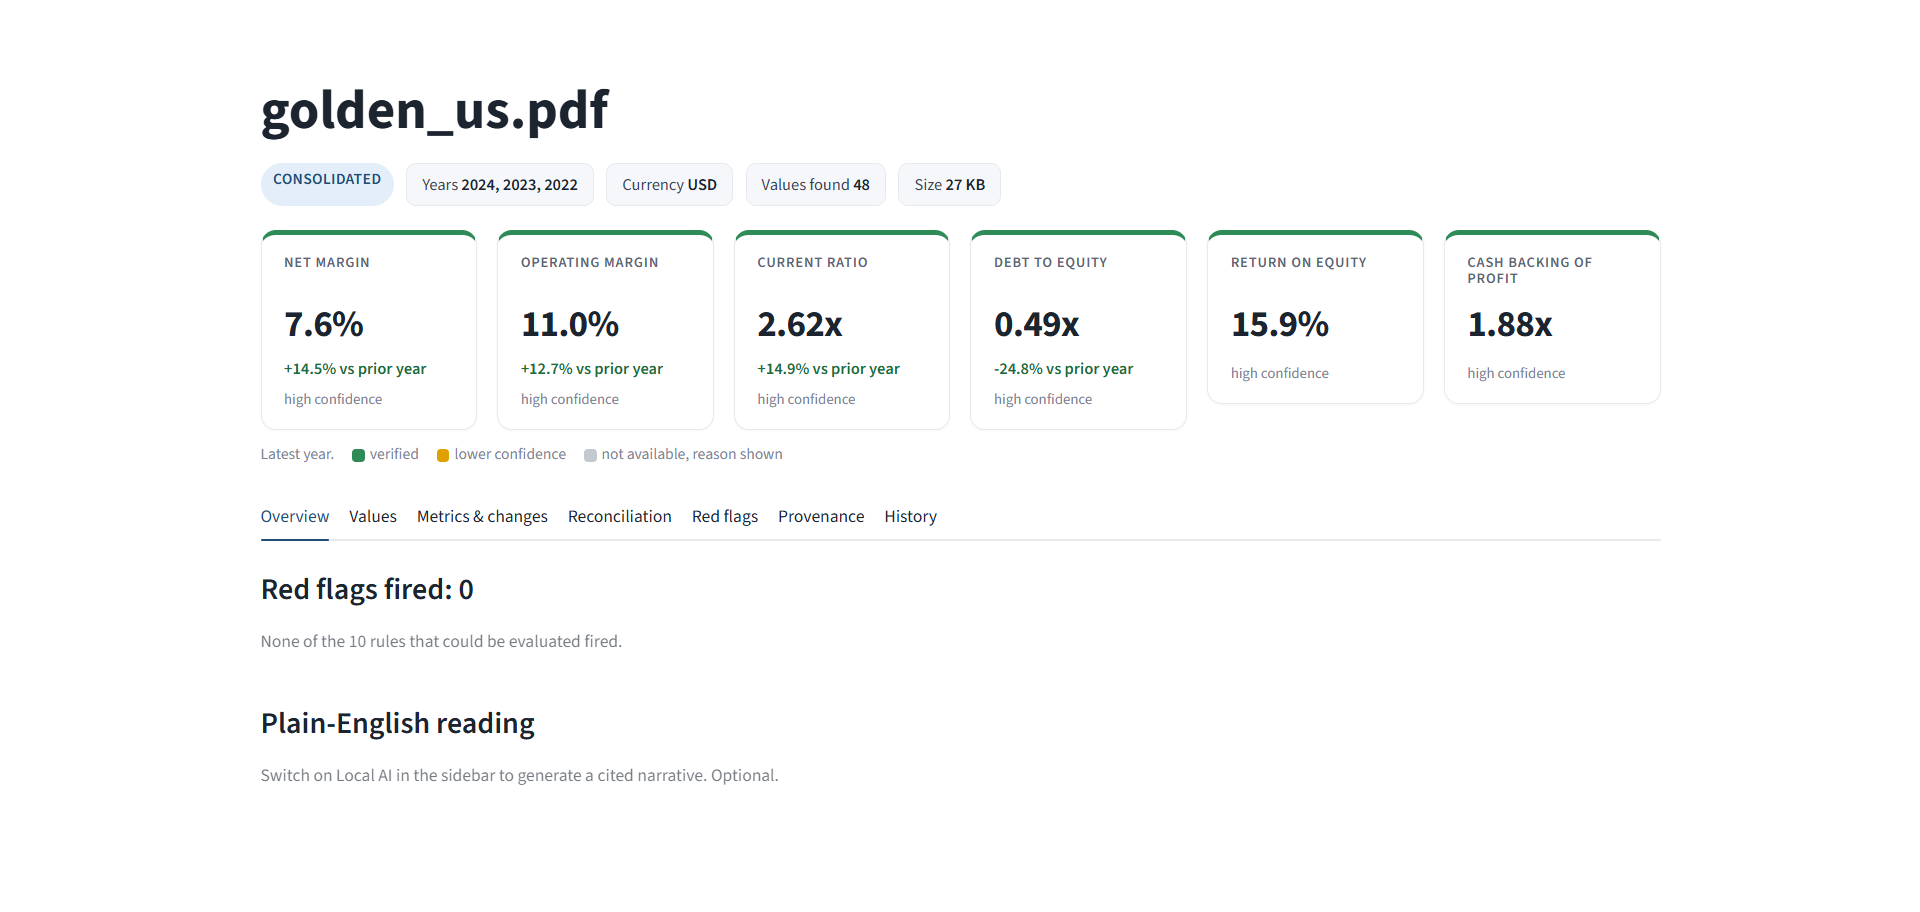
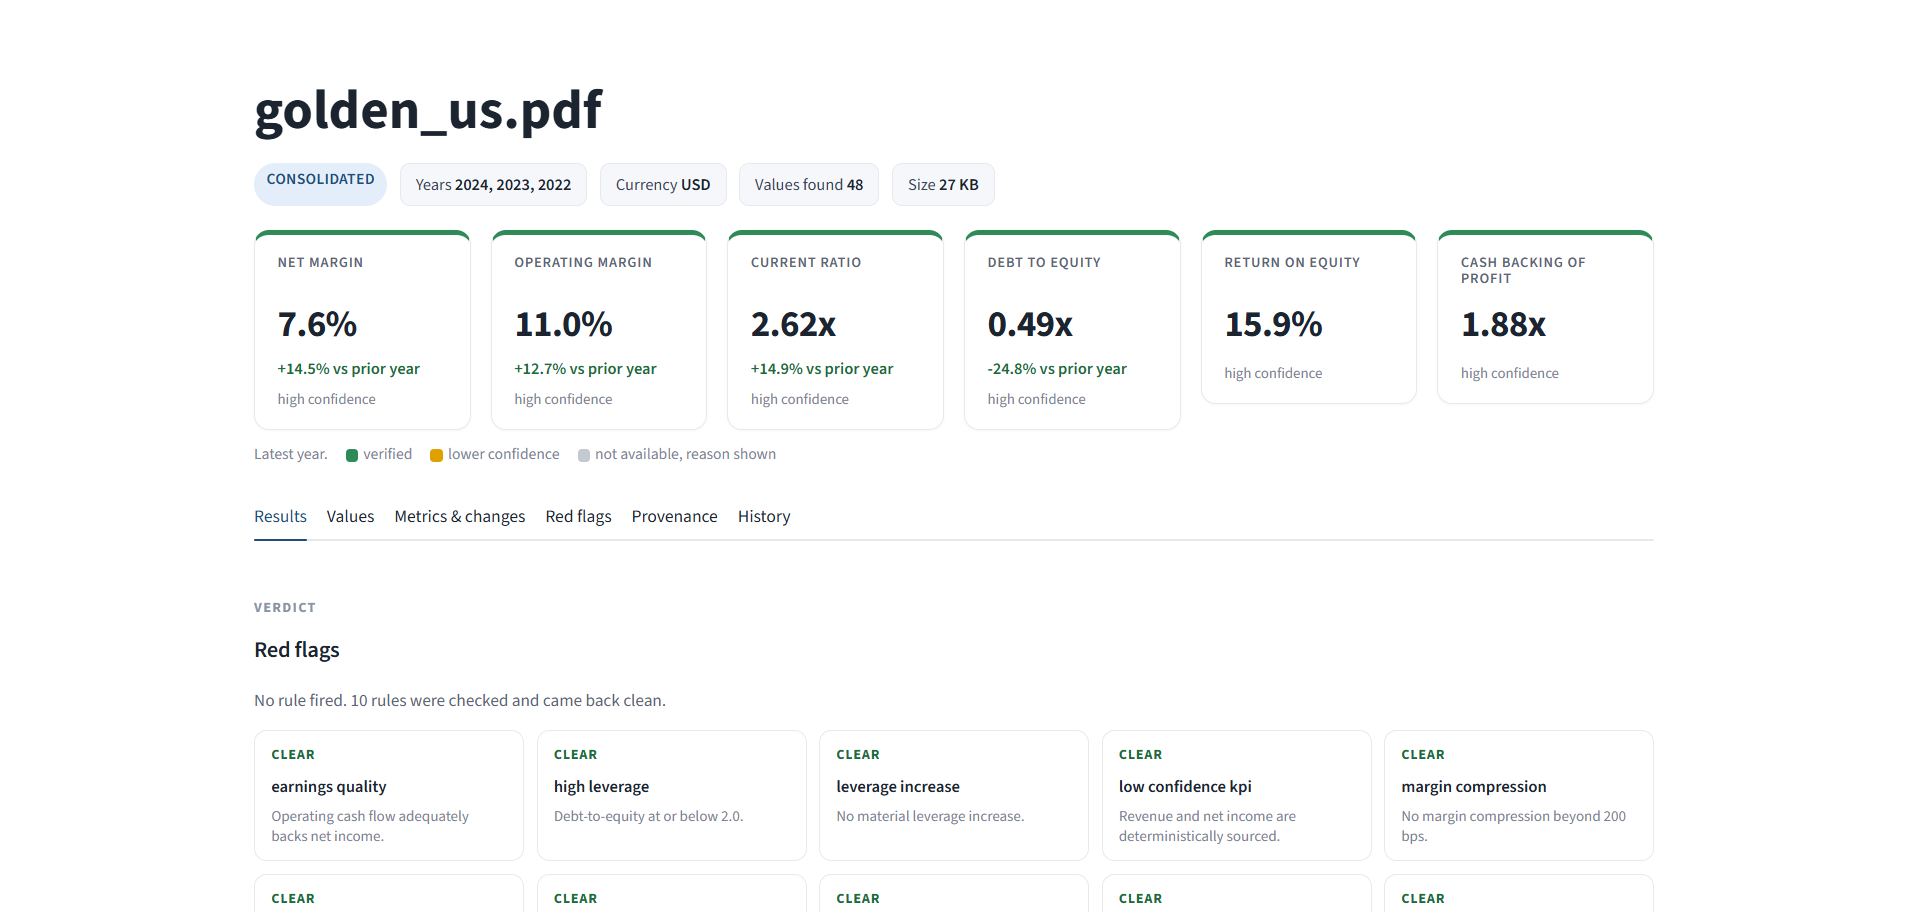
docs: describe the visual results; human rule names in the flag grid

diff --git a/src/fincopilot/views.py b/src/fincopilot/views.py
@@ -64,6 +64,19 @@ STATUS_WORD = {
     "not_evaluated": "Not evaluated",
 }
 
+RULE_LABEL = {
+    "revenue_decline": "Revenue decline",
+    "margin_compression": "Margin compression",
+    "leverage_increase": "Leverage increase",
+    "high_leverage": "High leverage",
+    "negative_fcf": "Negative free cash flow",
+    "negative_ocf": "Negative operating cash flow",
+    "weak_liquidity": "Weak liquidity",
+    "earnings_quality": "Earnings quality",
+    "reconciliation_warning": "Cross-check warning",
+    "low_confidence_kpi": "Low-confidence KPI",
+}
+
 CONCEPT_LABEL = {
     "revenue": "Revenue",
     "cogs": "Cost of sales",
@@ -266,7 +279,7 @@ def reconciliation_rows(result: AnalysisResult) -> list[dict[str, Any]]:
 def red_flag_rows(result: AnalysisResult) -> list[dict[str, Any]]:
     return [
         {
-            "rule": f.rule_id.replace("_", " "),
+            "rule": RULE_LABEL.get(f.rule_id, f.rule_id.replace("_", " ")),
             "status": f.outcome.value,
             "severity": f.severity.value,
             "message": f.message,

diff --git a/tests/test_views.py b/tests/test_views.py
@@ -135,3 +135,12 @@ def test_kpi_note_drops_what_the_card_already_says(hostile):
         assert not c.note.startswith("N/A")
         assert f"{c.name} {c.period}:" not in c.note
         assert c.note
+
+
+def test_rule_names_are_written_for_people(golden):
+    from fincopilot.rules.redflags import RULES
+
+    assert set(views.RULE_LABEL) == {r.rule_id for r in RULES}
+    rows = views.red_flag_rows(golden)
+    assert {"Earnings quality", "Low-confidence KPI"} <= {r["rule"] for r in rows}
+    assert all("_" not in r["rule"] for r in rows)

diff --git a/README.md b/README.md
@@ -38,15 +38,24 @@ uv run ruff check . && uv run ruff format --check .
 
 ## What the dashboard shows
 
+The **Results** tab leads with the verdict, then draws the evidence.
+
 | Panel | What it is |
 |---|---|
-| KPI cards | Latest-year net margin, operating margin, current ratio, debt to equity, return on equity, cash backing of profit. Green border = verified; amber = usable but lower confidence; grey dashed = not available, with the reason printed. Change vs prior year is coloured by whether it is good news, not by its sign. |
-| Values | Every figure found, in the report's own units, with the page and row label it came from and how it was matched. |
-| Metrics and changes | All ratios and year-over-year changes, including the ones that could not be computed and why. |
-| Reconciliation | Do assets equal liabilities plus equity, does gross profit equal revenue minus cost of sales, does free cash flow tie out. Passed, warning, or unavailable. |
-| Red flags | Ten rules. Fired, clear, or not evaluated with the reason, so "checked and fine" is never confused with "could not check". |
-| Provenance | Pick any cell and see the page, table, row, column, raw printed text, scale, and currency behind it. |
-| History | Past analyses from a local SQLite file. The PDF itself is never stored, only its fingerprint and the results. |
+| KPI cards | Latest-year net margin, operating margin, current ratio, debt to equity, return on equity, cash backing of profit. Green = verified; amber = usable but lower confidence; grey dashed = not available, with the reason printed. The change against the prior year is coloured by whether it is good news, not by its sign. |
+| Red flag grid | Ten rules, each a card: fired, clear, or not evaluated with the reason. "Checked and fine" is never confused with "could not check". |
+| Revenue and profit | Revenue down to net income, per year, in the report's own units. |
+| Margins | Gross, operating and net margin per year. |
+| Balance sheet | Assets beside liabilities plus equity. The two bars must reach the same height; a visible gap is the accounting identity failing. |
+| Cash | A waterfall from operating cash flow, less capital expenditure, to free cash flow. |
+| Cross-checks | Each check's difference drawn inside the tolerance it is allowed. No visible bar means the statement tied out exactly. |
+| Values, Metrics, Provenance, History | The same results as tables, plus the page, table, row, column, raw text, scale and currency behind any figure, and past analyses from a local SQLite file. |
+
+Every chart has **Show the numbers behind this chart** beneath it, and states in words
+anything it could not draw. A value that is unavailable is absent from the chart, never
+plotted as a zero bar.
+
+![Balance sheet and cash charts](docs/screenshots/balance.png)
 
 ![Values tab](docs/screenshots/values.png)
 

diff --git a/docs/HOW_IT_WAS_BUILT.md b/docs/HOW_IT_WAS_BUILT.md
@@ -19,7 +19,7 @@ system accurately to engineers. Short on purpose.
    code happened to produce.
 3. **Tests before code, every time.** For each feature the failing test was
    written first, then the smallest code that makes it pass. 297 automated
-   tests existed at Phase 8; 394 exist now. All pass. A lint tool (Ruff) enforces style.
+   tests existed at Phase 8; 431 exist now. All pass. A lint tool (Ruff) enforces style.
 4. **One phase, one commit.** Fourteen phases (0-13), each committed with its tests.
 
 ### Phases 0-8: the deterministic engine
@@ -45,6 +45,7 @@ system accurately to engineers. Short on purpose.
 | 11 | Local SQLite history: five thin tables, results only, never the PDF, values stored as exact decimal text | round-trip, cascade delete, path-stripped names, corrupt file |
 | 12 | Three real annual reports (Apple, Berkshire, Wipro) went from zero values to a coherent set each. Statements printed without ruling lines are now rebuilt from word positions; text with no spaces is re-read; page-split statements rejoin; a report that prints two sets of statements yields one coherent set. | `text_aligned.pdf`, a ninth fixture encoding every real-report case; `docs/PHASE12_VALIDATION.md` |
 | 13 | README, screenshots, security review, a stress pass over the new code with every finding fixed | this document, `docs/SECURITY_REVIEW.md`, `docs/KNOWN_ISSUES.md` |
+| 13b | Visual results: five charts drawn from the analysis (revenue and profit, margins, the balance-sheet identity, a cash waterfall, cross-checks against their tolerance) plus a design pass on the whole page | `src/fincopilot/charts.py` is pure and tested; a chart can only draw a value the analysis produced, and anything unavailable is absent from the picture and named in words |
 
 ### The test reports
 
@@ -175,4 +176,4 @@ and a chain back to the first thing that went wrong, so the answer to "why is
 ROE blank?" is "because equity was not matched, because the balance sheet was
 not found on any page", not a shrug. And every figure that *is* shown can be
 walked back to a printed cell on a numbered page. Those two properties are
-what the 394 tests exist to protect.
+what the 431 tests exist to protect.
